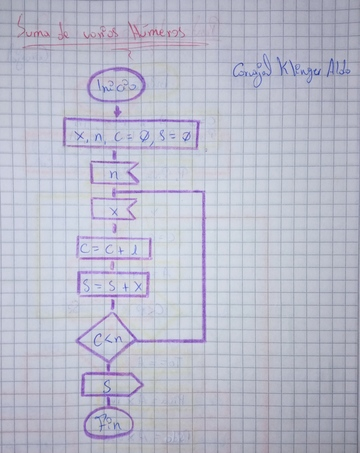
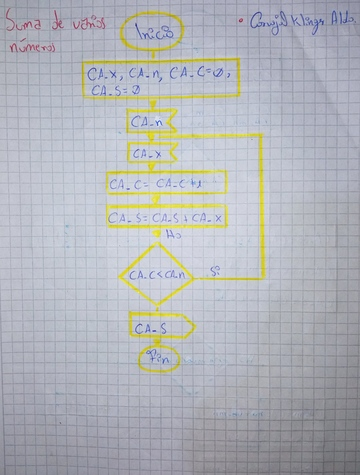
Actualizacion de Suma De Dos Numeros B2-C2

diff --git a/AldoCarvajalk/ACTIVIDAD-B2-C2/AldoCarvajalk-SumaN.cpp b/AldoCarvajalk/ACTIVIDAD-B2-C2/AldoCarvajalk-SumaN.cpp
@@ -1,19 +1,32 @@
+//=======Nombre del programa: Suma de dos numeros
+//====Archivo: AldoCarvajalk-SumaN.cpp
+//====Autor: Carvajal Aldo
+//====Fecha de elaboracion: 03-05-2022
+//====Fecha de ultima actualizacion: 19-05-2022
+
 #include<iostream>
 using namespace std;
 
 int main()
 {
-	int c=0, n;
-	float s=0, x;
+	int CA_c=0, CA_n;
+	float CA_s=0, CA_x;
 	cout<<"Ingrese la cantidad de numeros a sumar : ";
-	cin>>n;
+	cin>>CA_n;
 	do{
          
 		cout<<"Ingrese un numero :";
-		cin>>x;
-		c=c+1;
-		s=s+x;
-	}while(c<n);
-	cout<<"La suma de los numeros es :"<<s<<endl;
+		cin>>CA_x;
+		CA_c=CA_c+1;
+		CA_s=CA_s+CA_x;
+	}while(CA_c<CA_n);
+
+//=======Nombre del programa: Suma de dos numeros
+//====Archivo: AldoCarvajalk-SumaN.cpp
+//====Autor: Carvajal Aldo
+//====Fecha de elaboracion: 03-05-2022
+//====Fecha de ultima actualizacion: 19-05-2022
+
+	cout<<"La suma de los numeros es :"<<CA_s<<endl;
 	return(0);
 }
